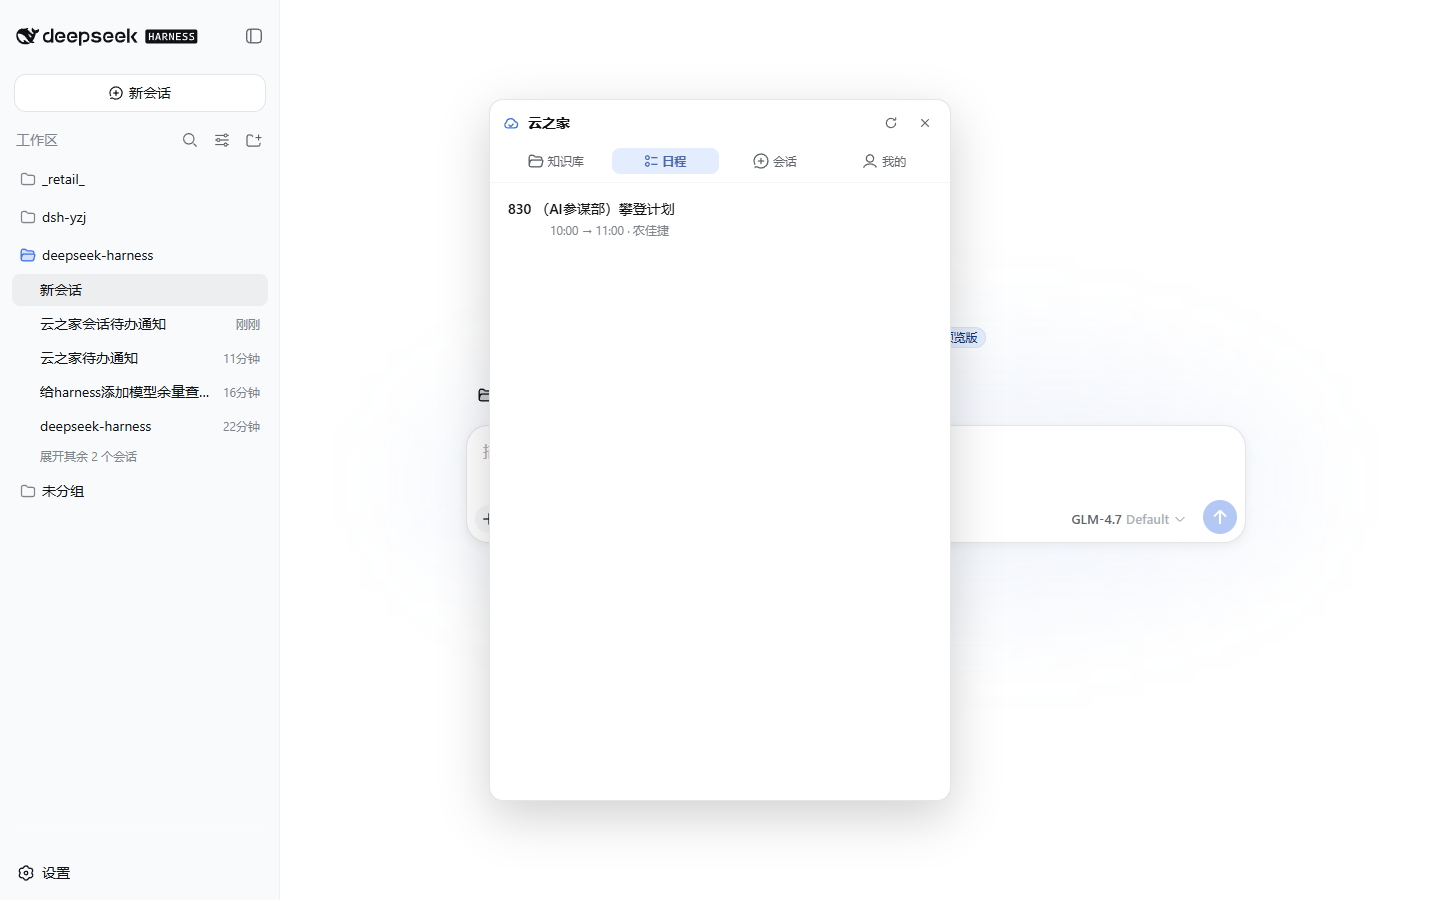
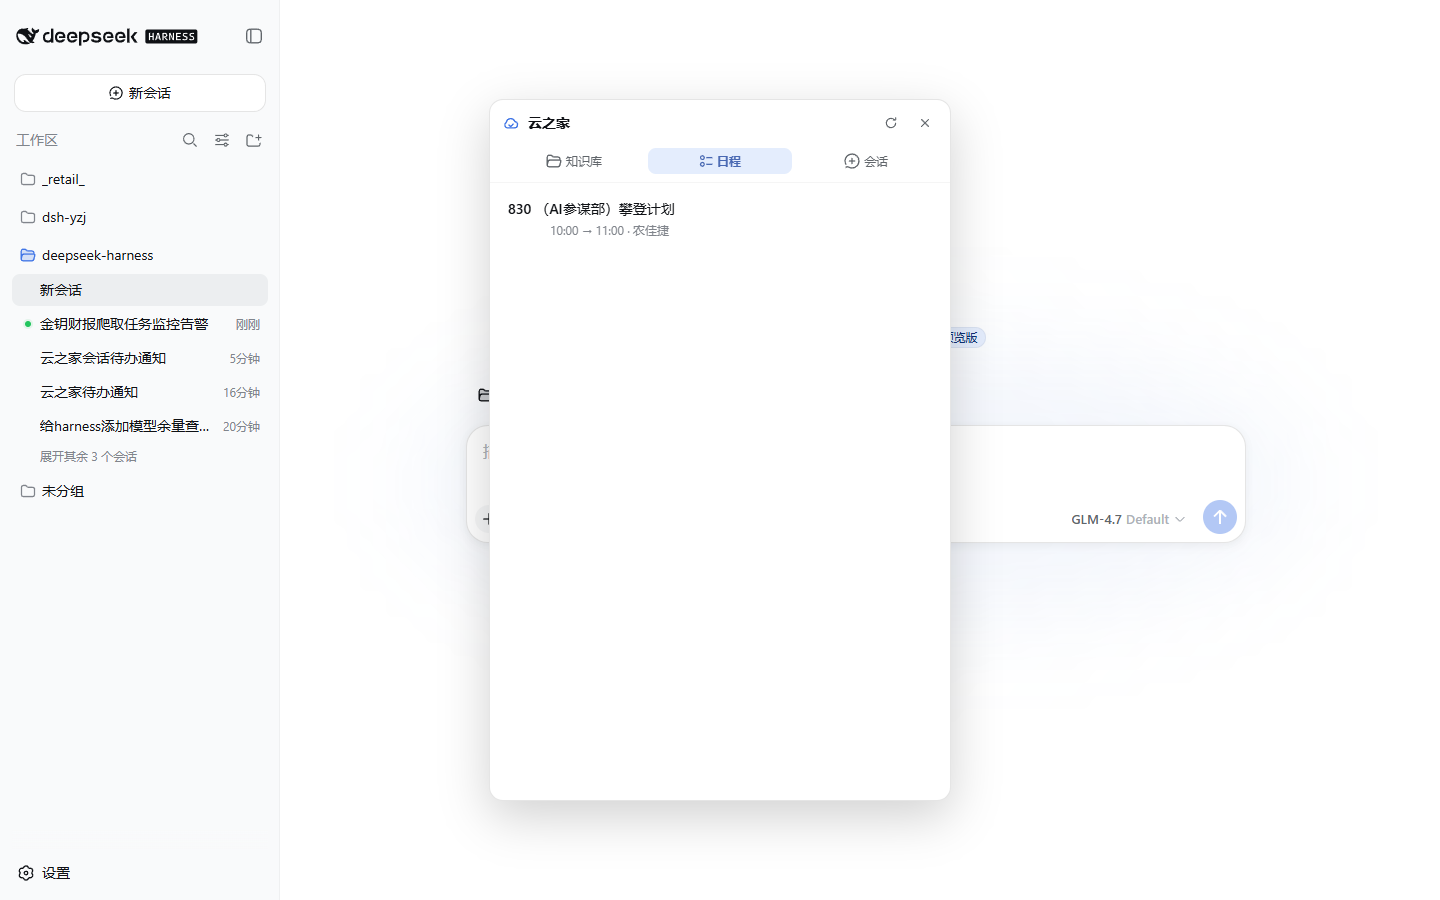
feat(ui-yzj): drop the 我的 tab
- Remove the 我的 tab (whoami card + directory search) from the panel and
  the floating-ball quick-dock — the composer '@' already covers directory
  search, and whoami is still used for send attribution.
- Clean up the removed store fields/actions (me, searchKeyword,
  searchResults); persisted tabs holding 'me' fall back to 知识库.
- Panel now has three tabs: 知识库 / 日程 / 会话.
- Updated verify-float-dock (3 shortcuts); all regressions + 69 unit
  tests green.

Changed region(s): [[0.0312, 0.3422, 0.1562, 0.4978], [0.375, 0.1556, 0.5625, 0.2178], [0.5938, 0.1556, 0.625, 0.1867]]

diff --git a/packages/ui-yzj/src/client/panel.tsx b/packages/ui-yzj/src/client/panel.tsx
@@ -1,16 +1,15 @@
 /**
- * The Yunzhijia workspace panel: a frame overlay with four tabs — 知识库
+ * The Yunzhijia workspace panel: a frame overlay with three tabs — 知识库
  * (workspace → doc tree), 日程 (today), 会话 (recent groups → messages with
- * paging), and 我的 (whoami + directory search). Rendering stays
- * presentational: data arrives through the injected fetch face and the shared
- * store; verbs are the injected face and store actions.
+ * paging). Rendering stays presentational: data arrives through the injected
+ * fetch face and the shared store; verbs are the injected face and store
+ * actions.
  */
 import { useEffect, useRef, useState, type PointerEvent as ReactPointerEvent, type ReactNode } from 'react'
 import {
   IconChecklistOutline14,
   IconFolderOpenOutline16,
   IconNewChatOutline16,
-  IconUserOutline16,
   Tooltip,
 } from '@deepseek-ai/dsh-client-ui-primitives'
 import type { BakedActions } from '@deepseek-ai/dsh-client-ui-slots'
@@ -481,7 +480,6 @@ const TABS: { key: YzjTab; label: string; icon: () => ReactNode }[] = [
   { key: 'docs', label: '知识库', icon: () => <IconFolderOpenOutline16 /> },
   { key: 'calendar', label: '日程', icon: () => <IconChecklistOutline14 /> },
   { key: 'chat', label: '会话', icon: () => <IconNewChatOutline16 /> },
-  { key: 'me', label: '我的', icon: () => <IconUserOutline16 /> },
 ]
 
 /** The sidebar-foot toggle; label and open state ride the store shares. */
@@ -609,7 +607,6 @@ const DOCK_ITEMS: { key: YzjTab; label: string; icon: () => ReactNode }[] = [
   { key: 'chat', label: '会话', icon: () => <IconNewChatOutline16 /> },
   { key: 'calendar', label: '日程', icon: () => <IconChecklistOutline14 /> },
   { key: 'docs', label: '知识库', icon: () => <IconFolderOpenOutline16 /> },
-  { key: 'me', label: '我的', icon: () => <IconUserOutline16 /> },
 ]
 
 /** Common emojis for the composer picker (real-IM habit). */
@@ -748,14 +745,6 @@ function loadTab(
         props.actions.setLoading(false)
       } else fail(result.error.message)
     })
-  } else {
-    void props.fetchWhoami().then((result) => {
-      if (result.ok) {
-        const users = asArray(result.value)
-        props.actions.setMe(users[0] ?? {})
-        props.actions.setLoading(false)
-      } else fail(result.error.message)
-    })
   }
 }
 
@@ -763,7 +752,8 @@ function loadTab(
 export function YzjPanel(props: YzjPanelProps) {
   const open = props.useStore(state => state.open)
   const tab = props.useStore(state => state.tab)
-  const [keyword, setKeyword] = useState('')
+  // Persisted tabs may hold the removed 'me'; fall back to the docs tab.
+  const activeTab: YzjTab = tab === 'docs' || tab === 'calendar' || tab === 'chat' ? tab : 'docs'
   const state = props.useStore(s => s)
   const panelRef = useRef<HTMLDivElement | null>(null)
   const dragOffset = useRef<{ dx: number; dy: number } | null>(null)
@@ -911,11 +901,11 @@ export function YzjPanel(props: YzjPanelProps) {
 
   useEffect(() => {
     if (!open) return
-    loadTab(tab, props)
+    loadTab(activeTab, props)
     // tab switches and opens are the load triggers; state reads inside the
     // loader come from the snapshot taken at effect time.
     // eslint-disable-next-line react-hooks/exhaustive-deps
-  }, [open, tab])
+  }, [open, activeTab])
 
   if (!open) return null
 
@@ -1128,19 +1118,6 @@ export function YzjPanel(props: YzjPanelProps) {
     reader.readAsDataURL(file)
   }
 
-  const runSearch = (): void => {
-    if (keyword.trim() === '') return
-    props.actions.setLoading(true)
-    void props.fetchSearch(keyword.trim()).then((result) => {
-      if (result.ok) {
-        props.actions.setSearchResults(asArray(result.value))
-      } else {
-        props.actions.setError(result.error.message)
-      }
-      props.actions.setLoading(false)
-    })
-  }
-
   return (
     <div
       ref={panelRef}
@@ -1158,7 +1135,7 @@ export function YzjPanel(props: YzjPanelProps) {
         <button
           type="button"
           className={css.iconButton}
-          onClick={() => { loadTab(tab, props) }}
+          onClick={() => { loadTab(activeTab, props) }}
           disabled={state.loading}
           aria-label="刷新"
           title="刷新"
@@ -1182,8 +1159,8 @@ export function YzjPanel(props: YzjPanelProps) {
           <button
             key={item.key}
             type="button"
-            className={tab === item.key ? `${css.tab} ${css.tabActive}` : css.tab}
-            aria-current={tab === item.key ? 'page' : undefined}
+            className={activeTab === item.key ? `${css.tab} ${css.tabActive}` : css.tab}
+            aria-current={activeTab === item.key ? 'page' : undefined}
             onClick={() => { props.actions.setTab(item.key) }}
           >
             {item.icon()}
@@ -1207,7 +1184,7 @@ export function YzjPanel(props: YzjPanelProps) {
       )}
       {state.loading && <div className={css.loading}>加载中…</div>}
 
-      {tab === 'docs' && (
+      {activeTab === 'docs' && (
         <div className={css.body}>
           {state.workspaceId === '' ? (
             <div className={css.list}>
@@ -1279,7 +1256,7 @@ export function YzjPanel(props: YzjPanelProps) {
         </div>
       )}
 
-      {tab === 'calendar' && (
+      {activeTab === 'calendar' && (
         <div className={css.body}>
           <div className={css.list}>
             {state.events.length === 0 && !state.loading && state.error === '' && (
@@ -1322,7 +1299,7 @@ export function YzjPanel(props: YzjPanelProps) {
         </div>
       )}
 
-      {tab === 'chat' && (
+      {activeTab === 'chat' && (
         <div className={css.body}>
           {state.groupId === '' ? (
             <div className={css.list}>
@@ -1586,64 +1563,6 @@ export function YzjPanel(props: YzjPanelProps) {
         </div>
       )}
 
-      {tab === 'me' && (
-        <div className={css.body}>
-          <div className={css.searchRow}>
-            <input
-              className={css.searchInput}
-              value={keyword}
-              onChange={(event) => { setKeyword(event.target.value) }}
-              onKeyDown={(event) => { if (event.key === 'Enter') runSearch() }}
-              placeholder="搜索同事…"
-            />
-            <button type="button" className={css.headerButton} onClick={runSearch}>搜索</button>
-          </div>
-          {(() => {
-            const me = asRecord(state.me)
-            if (Object.keys(me).length === 0) return null
-            const photo = asString(me.photoUrl)
-            return (
-              <div className={css.meCard}>
-                {photo !== ''
-                  ? <img className={css.meAvatar} src={photo} alt="" />
-                  : <span className={css.meAvatarFallback}>{asString(me.name).slice(0, 1)}</span>}
-                <div className={css.meInfo}>
-                  <div className={css.meName}>{asString(me.name)}</div>
-                  <div className={css.meSub}>
-                    {[asString(me.department), asString(me.jobTitle), asString(me.jobNo) === '' ? '' : `工号 ${asString(me.jobNo)}`].filter(part => part !== '').join(' · ')}
-                  </div>
-                </div>
-              </div>
-            )
-          })()}
-          <div className={css.list}>
-            {state.searchResults.map((item, index) => {
-              const user = asRecord(item)
-              const openId = asString(user.oId ?? user.openId)
-              const name = asString(user.name)
-              return (
-                <div
-                  key={`s${index}`}
-                  className={css.item}
-                  draggable
-                  onDragStart={(event) => {
-                    startDragTransfer(event, {
-                      kind: 'contact', id: openId, title: name,
-                      sub: [asString(user.department), asString(user.jobTitle)].filter(part => part !== '').join(' · '),
-                    })
-                  }}
-                >
-                  <span className={css.itemTitle}>
-                    <span className={css.userGlyph}>{name.slice(0, 1)}</span>
-                    <span className={css.itemTitleText}>{name}</span>
-                  </span>
-                  <span className={css.itemSub}>{[asString(user.department), asString(user.jobTitle)].filter(part => part !== '').join(' · ')}</span>
-                </div>
-              )
-            })}
-          </div>
-        </div>
-      )}
       {dropToast !== '' && (
         <div className={css.dropToast} role="status">{dropToast}</div>
       )}

diff --git a/packages/ui-yzj/src/client/stores.ts b/packages/ui-yzj/src/client/stores.ts
@@ -6,8 +6,8 @@
  */
 import { defineStore, type EngineStoreHandle } from '@deepseek-ai/dsh-client-runtime/client'
 
-/** Panel tabs. */
-export type YzjTab = 'docs' | 'calendar' | 'chat' | 'me'
+/** Panel tabs (我的 removed — the composer '@' covers directory search). */
+export type YzjTab = 'docs' | 'calendar' | 'chat'
 
 /** Yunzhijia panel viewing state (raw CLI payloads, rendered by components). */
 export type YzjPanelState = {
@@ -29,9 +29,6 @@ export type YzjPanelState = {
   messagesAnchor: string
   /** Message to scroll to and highlight after the group loads (jump anchor). */
   anchorMsgId: string
-  me: unknown
-  searchKeyword: string
-  searchResults: unknown[]
   /** Sum of unread counts across recent sessions (the floating-ball badge). */
   unreadTotal: number
   loading: boolean
@@ -57,9 +54,6 @@ export type YzjPanelActions = {
   setMessagesAnchor: (draft: YzjPanelState, anchor: string) => void
   prependMessages: (draft: YzjPanelState, messages: unknown[]) => void
   setAnchorMsgId: (draft: YzjPanelState, id: string) => void
-  setMe: (draft: YzjPanelState, me: unknown) => void
-  setSearchKeyword: (draft: YzjPanelState, keyword: string) => void
-  setSearchResults: (draft: YzjPanelState, results: unknown[]) => void
   setUnreadTotal: (draft: YzjPanelState, total: number) => void
   setLoading: (draft: YzjPanelState, loading: boolean) => void
   setError: (draft: YzjPanelState, error: string) => void
@@ -85,9 +79,6 @@ export function createYzjStore(): EngineStoreHandle<YzjPanelState, YzjPanelActio
       messagesMore: false,
       messagesAnchor: '',
       anchorMsgId: '',
-      me: {},
-      searchKeyword: '',
-      searchResults: [],
       unreadTotal: 0,
       loading: false,
       error: '',
@@ -117,9 +108,6 @@ export function createYzjStore(): EngineStoreHandle<YzjPanelState, YzjPanelActio
         d.messages = [...messages.filter(message => !seen.has(String(asRecord(message).msgId))), ...d.messages]
       },
       setAnchorMsgId: (d: YzjPanelState, id: string) => { d.anchorMsgId = id },
-      setMe: (d: YzjPanelState, me: unknown) => { d.me = me },
-      setSearchKeyword: (d: YzjPanelState, keyword: string) => { d.searchKeyword = keyword },
-      setSearchResults: (d: YzjPanelState, results: unknown[]) => { d.searchResults = results },
       setUnreadTotal: (d: YzjPanelState, total: number) => { d.unreadTotal = total },
       setLoading: (d: YzjPanelState, loading: boolean) => { d.loading = loading },
       setError: (d: YzjPanelState, error: string) => { d.error = error },
